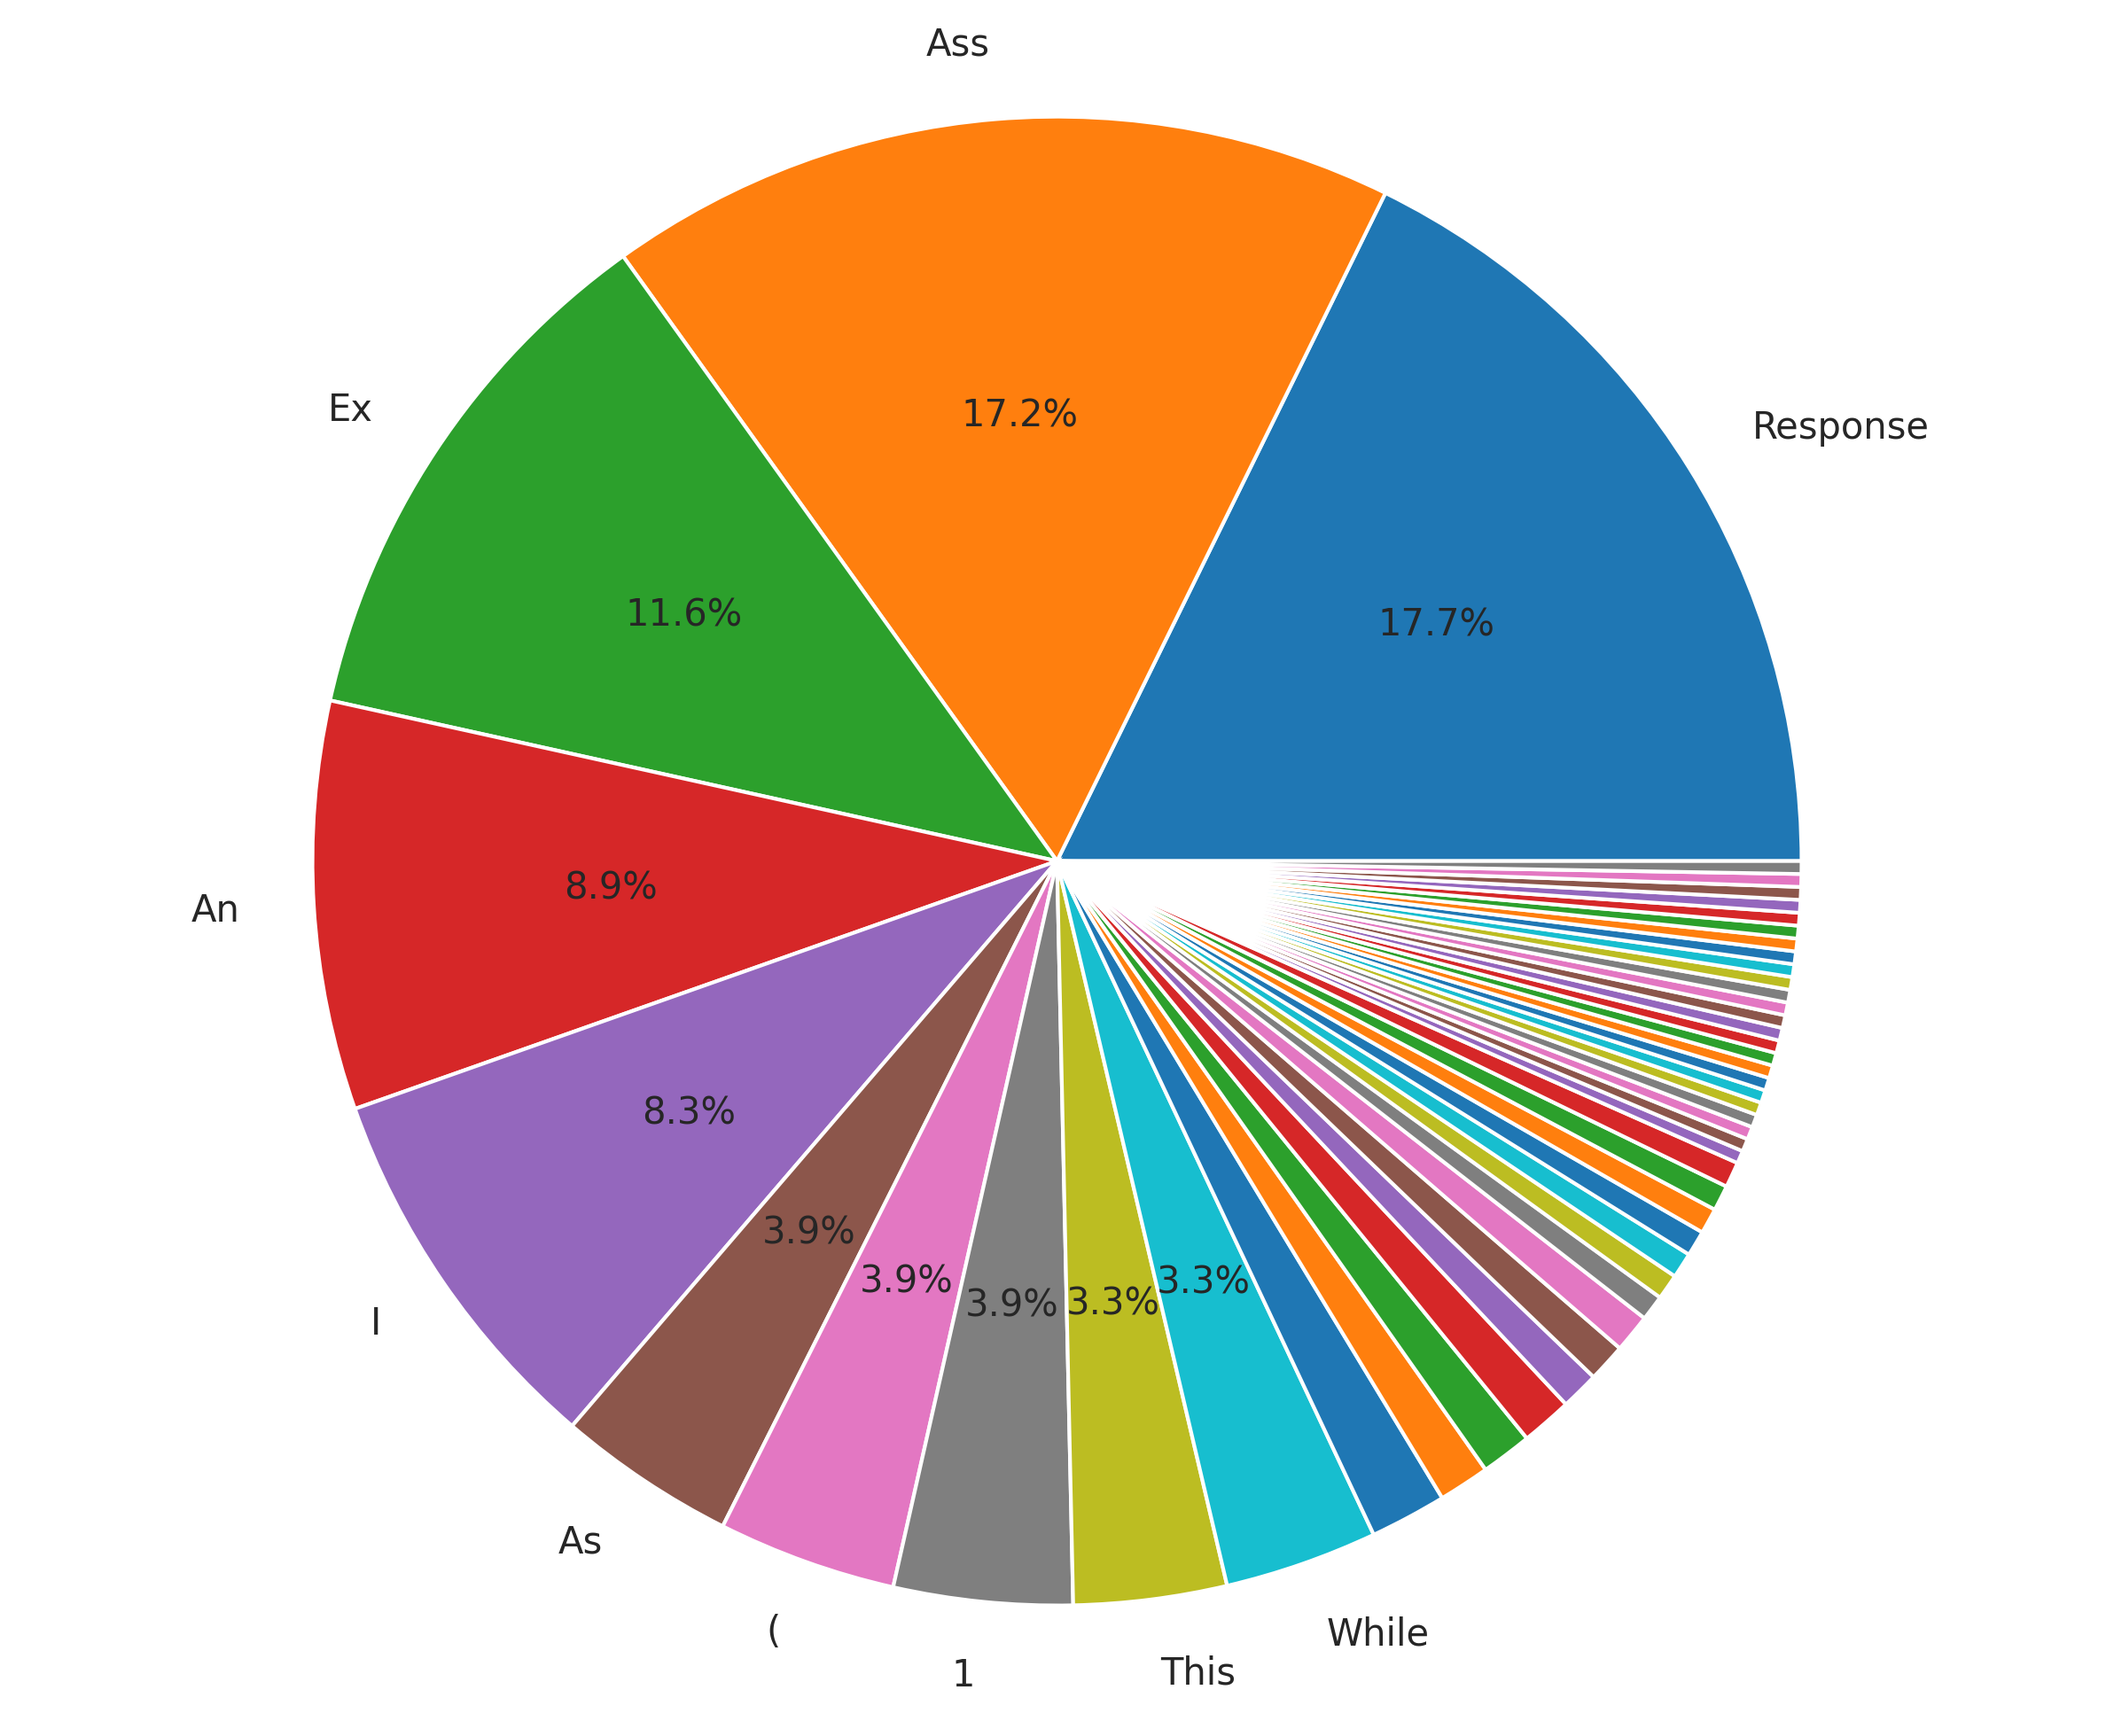
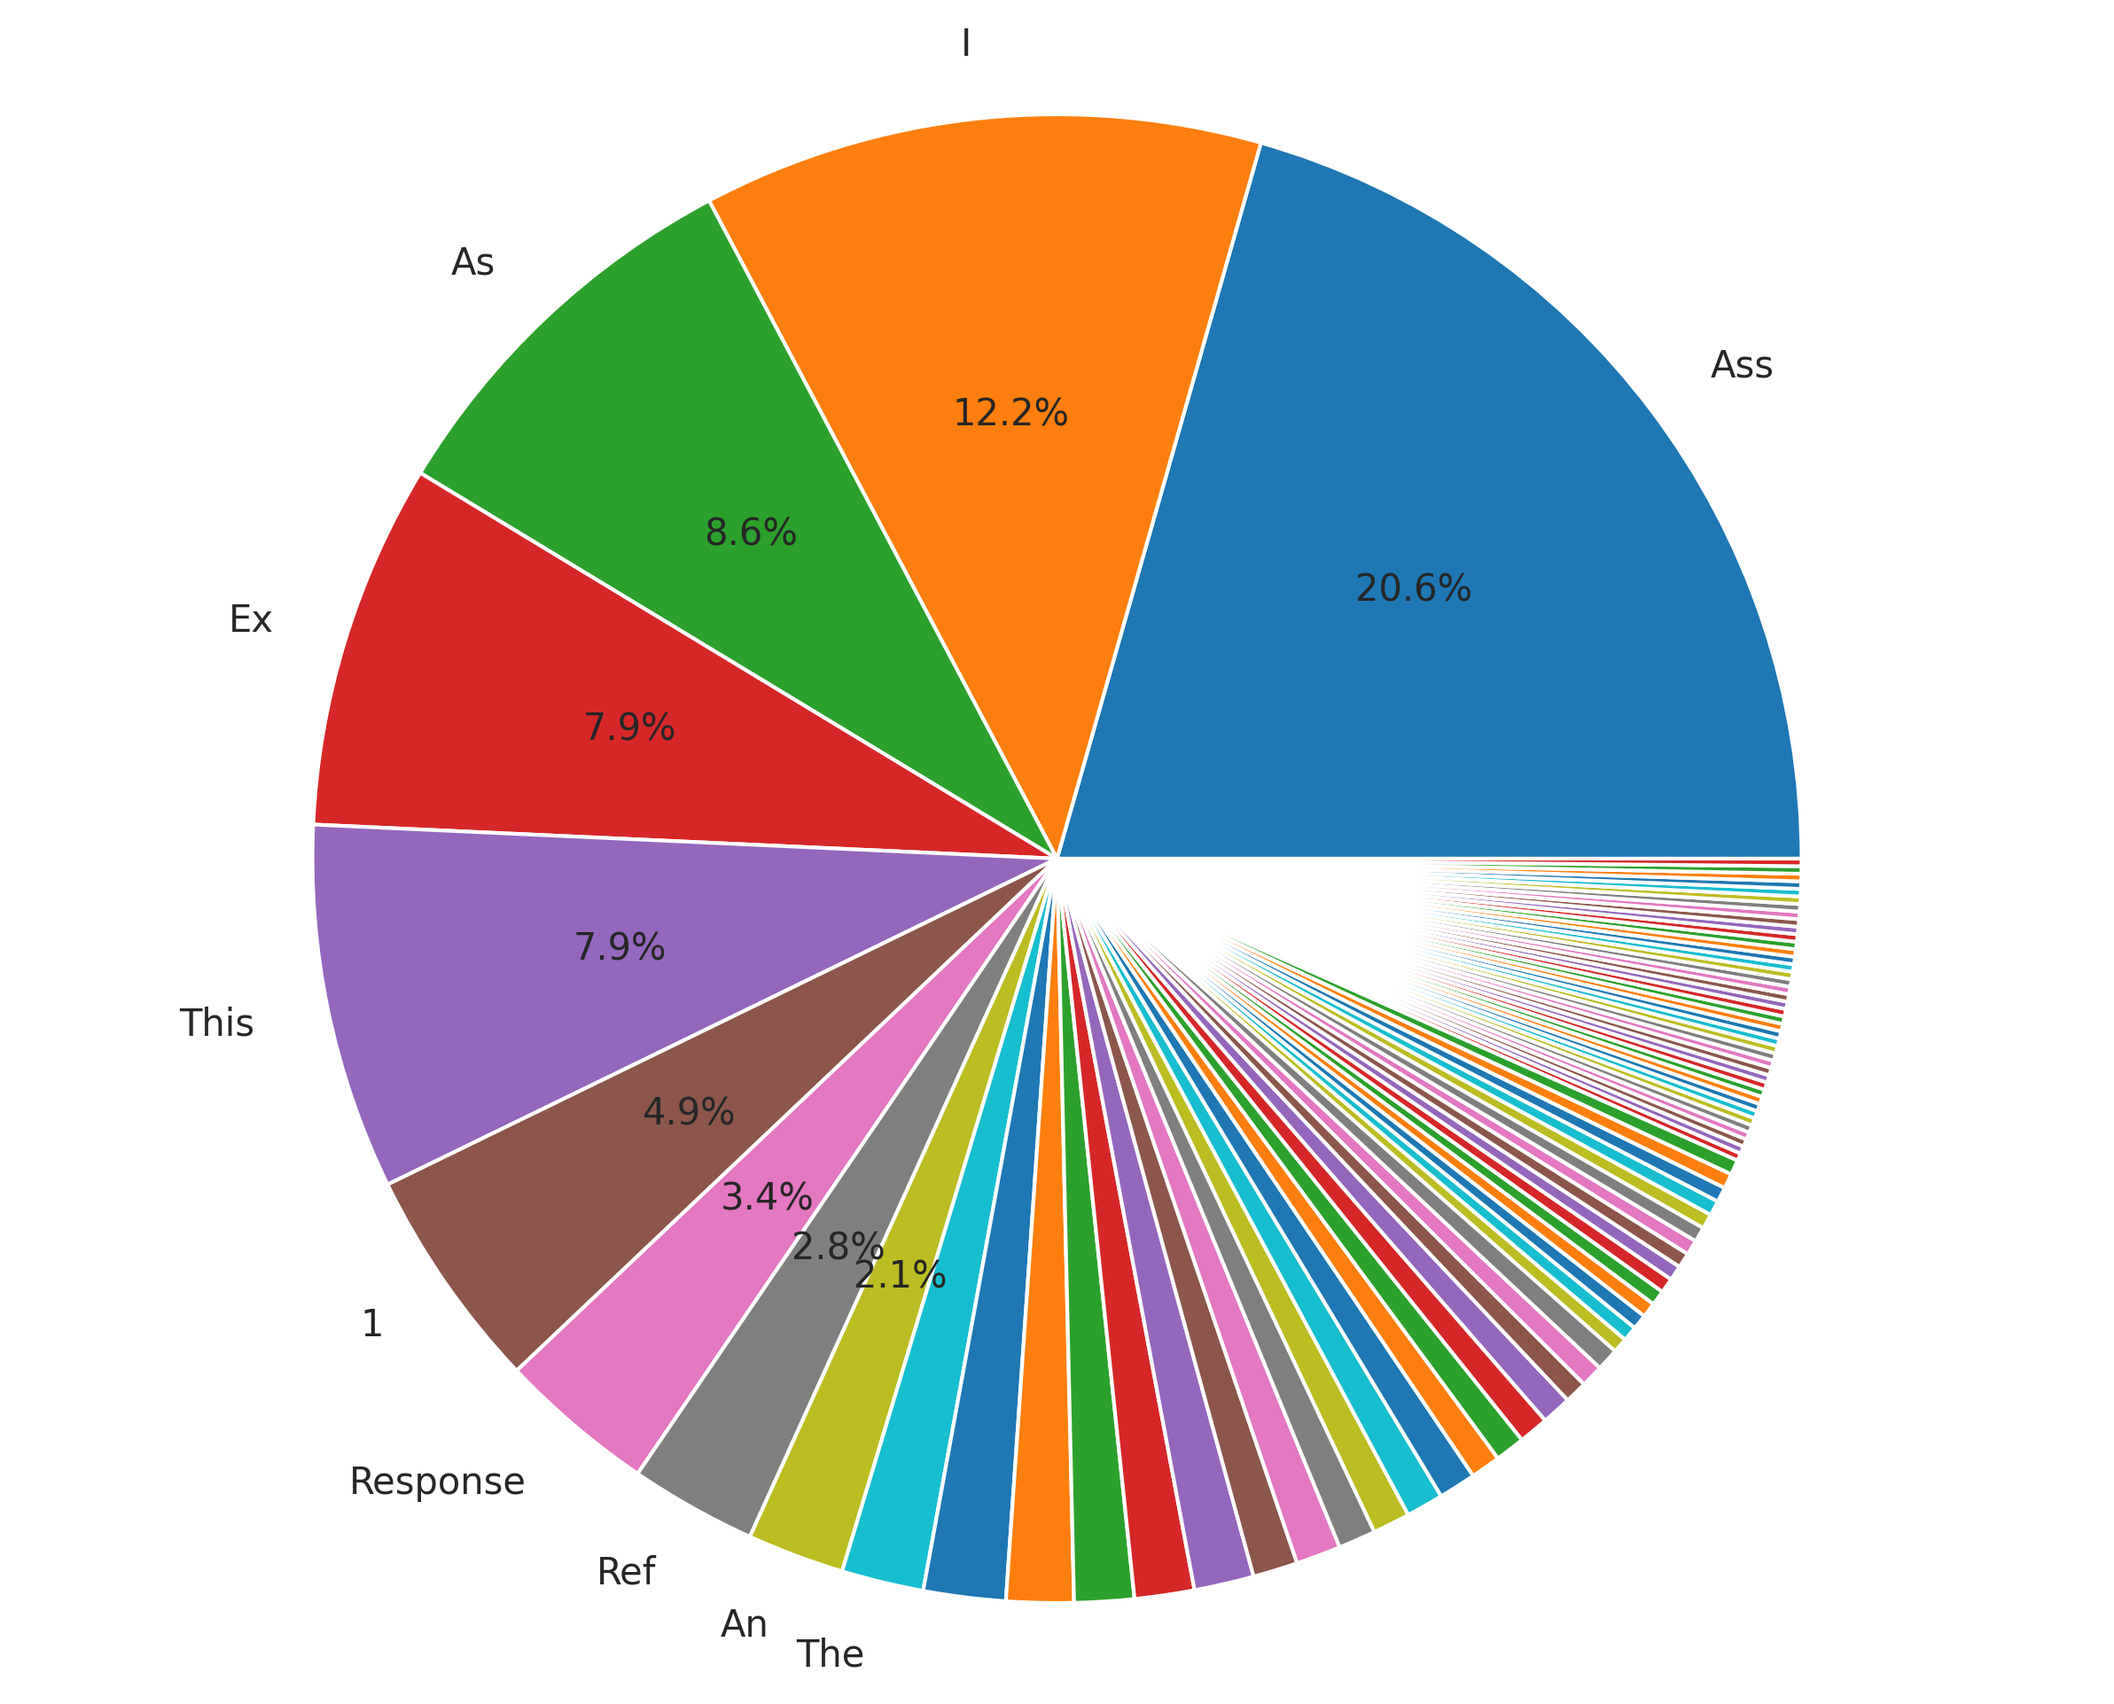
final changes, works all the way through end-to-end for v100 or h100

diff --git a/pipeline.py b/pipeline.py
@@ -3,17 +3,14 @@ import os
 available_gpus = [2, 3, 4, 5, 6]
 os.environ["CUDA_VISIBLE_DEVICES"] = ",".join(map(str, available_gpus))
 
-
 from transformers import Mamba2ForCausalLM, AutoTokenizer
 import torch
-from torch.profiler import profile, record_function, ProfilerActivity
 
 from nnsight import NNsight
 
 torch.set_grad_enabled(False)
 from utils import *
 
-# %%
 model_id = 'mistralai/Mamba-Codestral-7B-v0.1'
 
 tokenizer = AutoTokenizer.from_pretrained(model_id, from_slow=True, legacy=False, cache_dir='./codestral-7b-cache')
@@ -22,11 +19,17 @@ tokenizer.pad_token = tokenizer.unk_token
 model = Mamba2ForCausalLM.from_pretrained(model_id, cache_dir='./codestral-7b-cache').to("cuda:0")
 print(model.device)
 
+
+# Check GPU memory
+gpu_memory = torch.cuda.get_device_properties(0).total_memory / 1e9  # Convert to GB
+batch_size = 32 if gpu_memory >= 50 else 4
+print(f"GPU memory: {gpu_memory:.1f} GB")
+print(f"Using batch size: {batch_size}")
+
 # fix parallelism somehow
 nn_model = NNsight(model)
 
-# %%
-harm_prompts = get_dataset("harmbench_test")
+harm_prompts = get_dataset("advbench")[:256]
 harmless_prompts = get_dataset("alpaca")[:256]
 
 lens = [len(tokenize(prompt, tokenizer)[0]) for prompt in harm_prompts]
@@ -41,13 +44,13 @@ if os.path.exists("tmp/refusal_vector.pt") and os.path.exists("tmp/layer.txt"):
     best_refusal_vector = torch.load("tmp/refusal_vector.pt", weights_only=True)
     best_layer = int(open("tmp/layer.txt", "r").read())
 else:
-    harmbench_train_activations = get_activations(harm_prompts, nn_model, file_name="harmbench_train")
-    harmless_train_activations = get_activations(harmless_prompts, nn_model, file_name="harmless_train")
-    normalized_vectors = normalize_refusal_vectors(harmbench_train_activations, harmless_train_activations)
+    advbench_train_activations = get_activations(harm_prompts, model, nn_model, tokenizer, file_name="advbench_train", batch_size=batch_size)
+    harmless_train_activations = get_activations(harmless_prompts, model, nn_model, tokenizer, file_name="harmless_train", batch_size=batch_size)
+    normalized_vectors = normalize_refusal_vectors(advbench_train_activations, harmless_train_activations)
 
-    refusal_logits = all_ablation_logits(prompt_tok_arr, normalized_vectors)
-    print("harmbench refusal_logits.shape:", refusal_logits.shape)
-    print("harmbench refusal_logits.device:", refusal_logits.device)
+    refusal_logits = all_ablation_logits(prompt_tok_arr, normalized_vectors, nn_model, batch_size=128)
+    print("advbench refusal_logits.shape:", refusal_logits.shape)
+    print("advbench refusal_logits.device:", refusal_logits.device)
 
     # Calculate size in GB
     # Size = num_elements * bytes_per_element / bytes_per_GB
@@ -57,7 +60,7 @@ else:
     size_GB = (elements * bytes_per_element) / bytes_per_GB
     print(f"Refusal logits tensor size: {size_GB:.2f} GB")
 
-    raw_logits = unablated_logits(prompt_tok_arr, nn_model, batch_size=4, file_name="harmbench_train")
+    raw_logits = unablated_logits(prompt_tok_arr, nn_model, batch_size=batch_size, file_name="advbench_train")
     unablated_probs = torch.softmax(raw_logits, dim=-1).mean(dim=0)
     unablated_probs.device
 
@@ -73,42 +76,43 @@ else:
 
     best_refusal_vector, best_layer = grab_best_refusal_vector(scores, normalized_vectors)
 
-completions_tensor = get_completions(harm_prompts, model, tokenizer, file_name="harmbench_train")
-print("harmbench completions_tensor.shape:", completions_tensor.shape)
+completions_tensor = get_completions(harm_prompts, model, tokenizer, file_name="advbench_train", batch_size=batch_size)
+print("advbench completions_tensor.shape:", completions_tensor.shape)
 
 first_unablated_toks = completions_tensor[:, -16]
 unique_tokens, counts = torch.unique(first_unablated_toks, return_counts=True)
 token_distribution = dict(zip(unique_tokens.cpu().tolist(), counts.cpu().tolist()))
 sorted_distribution = dict(sorted(token_distribution.items(), key=lambda x: x[1], reverse=True))
 
-train_ablated = ablated_completions(prompt_tok_arr, best_refusal_vector, best_layer, nn_model, batch_size=4, file_name="harmbench_train")
-print("harmbench_test_ablated.shape:", train_ablated.shape)
+train_ablated = ablated_completions(prompt_tok_arr, best_refusal_vector, best_layer, nn_model, batch_size=batch_size, file_name="advbench_train")
+print("advbench_test_ablated.shape:", train_ablated.shape)
 
 length = 16
 
-train_ablated_outputs = from_completion_tensor(train_ablated, tokenizer, length=length, file_name="harmbench_train", ablated=True)
-train_unablated_outputs = from_completion_tensor(completions_tensor, tokenizer, length=length, file_name="harmbench_train")
+train_ablated_outputs = from_completion_tensor(train_ablated, tokenizer, length=length, file_name="advbench_train", ablated=True)
+train_unablated_outputs = from_completion_tensor(completions_tensor, tokenizer, length=length, file_name="advbench_train")
 
-advbench = get_dataset("advbench")[:64]
-harmbench_val = get_dataset("harmbench_val")[:64]
+advbench_val = get_dataset("advbench")[256:320]
+harmbench = get_dataset("harmbench_val")[:64]
 jailbreak = get_dataset("jailbreakbench")[:64] 
 malicious = get_dataset("malicious_instruct")[:64]
 strongreject = get_dataset("strongreject")[:64]
 tdc2023 = get_dataset("tdc2023")[:64]
 
-names = ["advbench", "harmbench_val", "jailbreak", "malicious", "strongreject", "tdc2023"]
-full_names = ["AdvBench", "HarmBench Val", "Jailbreak", "Malicious", "StrongReject", "Tdc2023"]
-prompt_dataset = [advbench, harmbench_val, jailbreak, malicious, strongreject, tdc2023]
+names = ["advbench_train", "advbench_test", "harmbench_val", "jailbreak", "malicious", "strongreject", "tdc2023"]
+full_names = ["AdvBench Train", "AdvBench Val", "HarmBench", "Jailbreak", "Malicious", "StrongReject", "Tdc2023"]
+prompt_dataset = [harm_prompts, advbench_val, harmbench, jailbreak, malicious, strongreject, tdc2023]
 prompt_tok_arrs = [arr_tokenize(dataset, tokenizer) for dataset in prompt_dataset]
 
 test_ablated_tensors = []
 test_unablated_tensors = []
 test_ablated_outputs = []
 test_unablated_outputs = []
+
 for index, prompt_tok_arr in enumerate(prompt_tok_arrs):
     file_name = names[index]
-    test_ablated_tensors.append(ablated_completions(prompt_tok_arr, best_refusal_vector, best_layer, nn_model, batch_size=4, length=length, file_name=file_name))
-    test_unablated_tensors.append(get_completions(prompt_dataset[index], model, tokenizer, batch_size=4, length=length, file_name=file_name))
+    test_ablated_tensors.append(ablated_completions(prompt_tok_arr, best_refusal_vector, best_layer, nn_model, batch_size=batch_size, length=length, file_name=file_name))
+    test_unablated_tensors.append(get_completions(prompt_dataset[index], model, tokenizer, batch_size=batch_size, length=length, file_name=file_name))
     test_ablated_outputs.append(from_completion_tensor(test_ablated_tensors[index], tokenizer, length=length, file_name=file_name, ablated=True))
     test_unablated_outputs.append(from_completion_tensor(test_unablated_tensors[index], tokenizer, length=length, file_name=file_name))
 
@@ -125,18 +129,13 @@ for index, (ablated_output, unablated_output) in enumerate(zip(test_ablated_outp
 
 harmless_test_prompts = get_dataset("alpaca")[256:320]
 harmless_test_tok_arr = arr_tokenize(harmless_test_prompts, tokenizer)
-harmless_test_completions = get_completions(harmless_test_prompts, model, tokenizer, batch_size=4, length=length, file_name="harmless_test")
-harmless_test_activated_completions = activated_completions(harmless_test_tok_arr, best_refusal_vector, best_layer, nn_model, batch_size=4, length=length, file_name="harmless_test")
-harmless_test_output = from_completion_tensor(harmless_test_activated_completions, tokenizer, length=length, file_name="harmless_test")
+harmless_test_completions = get_completions(harmless_test_prompts, model, tokenizer, batch_size=batch_size, length=length, file_name="harmless_test")
+harmless_test_activated_completions = activated_completions(harmless_test_tok_arr, best_refusal_vector, best_layer, nn_model, batch_size=batch_size, length=length, file_name="harmless_test")
+harmless_test_output = from_completion_tensor(harmless_test_completions, tokenizer, length=length, file_name="harmless_test")
 harmless_test_activated_output = from_completion_tensor(harmless_test_activated_completions, tokenizer, length=length, file_name="harmless_test_activated")
 
 first_harmless_toks = harmless_test_completions[:, -16]
 first_harmless_activated_toks = harmless_test_activated_completions[:, -16]
-
-# unique_tokens, counts = torch.unique(completions_tensor[:, -16], return_counts=True)
-# token_distribution = dict(zip(unique_tokens.cpu().tolist(), counts.cpu().tolist()))
-# sorted_distribution = dict(sorted(token_distribution.items(), key=lambda x: x[1], reverse=True))
-# print("Token distribution:", sorted_distribution)
 
 plot_refusal_scores(full_names, test_ablated_outputs, test_unablated_outputs)
 plot_harmless_refusal_scores(harmless_test_output, harmless_test_activated_output)

diff --git a/utils_generation.py b/utils_generation.py
@@ -85,14 +85,14 @@ def activated_completions(prompt_toks, refusal_vector, layer_ind, nn_model, batc
     return activated_completions
 
 
-def all_ablation_logits(prompt_tok_arr, normalized_vectors, batch_size=4):
+def all_ablation_logits(prompt_tok_arr, normalized_vectors, nn_model, batch_size=4):
     # grabs all first-token logits for all possible refusal vectors
     if not os.path.exists("tmp/all_logits.pt"):
         cutoff = 0.8
         n_layers = int(cutoff * 64)
         all_logits = torch.zeros(n_layers, normalized_vectors.shape[1], len(prompt_tok_arr), 32768)
         for layer_ind in tqdm(range(n_layers), desc="Processing layers"):
-            all_logits[layer_ind] = ablation_logits(prompt_tok_arr, normalized_vectors[layer_ind], layer_ind, batch_size)
+            all_logits[layer_ind] = ablation_logits(prompt_tok_arr, normalized_vectors[layer_ind], layer_ind, nn_model, batch_size)
         torch.save(all_logits, "tmp/all_logits.pt")
     else:
         all_logits = torch.load("tmp/all_logits.pt", map_location="cuda:2", weights_only=True)

diff --git a/utils_interp.py b/utils_interp.py
@@ -5,12 +5,12 @@ import torch
 from torch.utils.data import DataLoader
 from tqdm import tqdm
 
-def get_activations(prompts, nn_model, length = 16, batch_size = 8, file_name = None):
+def get_activations(prompts, model, nn_model, tokenizer, length = 16, batch_size = 8, file_name = None):
     if file_name is not None and os.path.exists(f"tmp/{file_name}_activations.pt"):
         return torch.load(f"tmp/{file_name}_activations.pt", map_location="cuda:1", weights_only=True)
 
-    prompt_len = arr_tokenize(prompts, nn_model.tokenizer).shape[1]
-    completions = get_completions(prompts, length, batch_size, f"{file_name}")
+    prompt_len = arr_tokenize(prompts, tokenizer).shape[1]
+    completions = get_completions(prompts, model, tokenizer, length, batch_size, f"{file_name}")
 
     dataloader = DataLoader(completions, batch_size=batch_size, shuffle=False)
 
